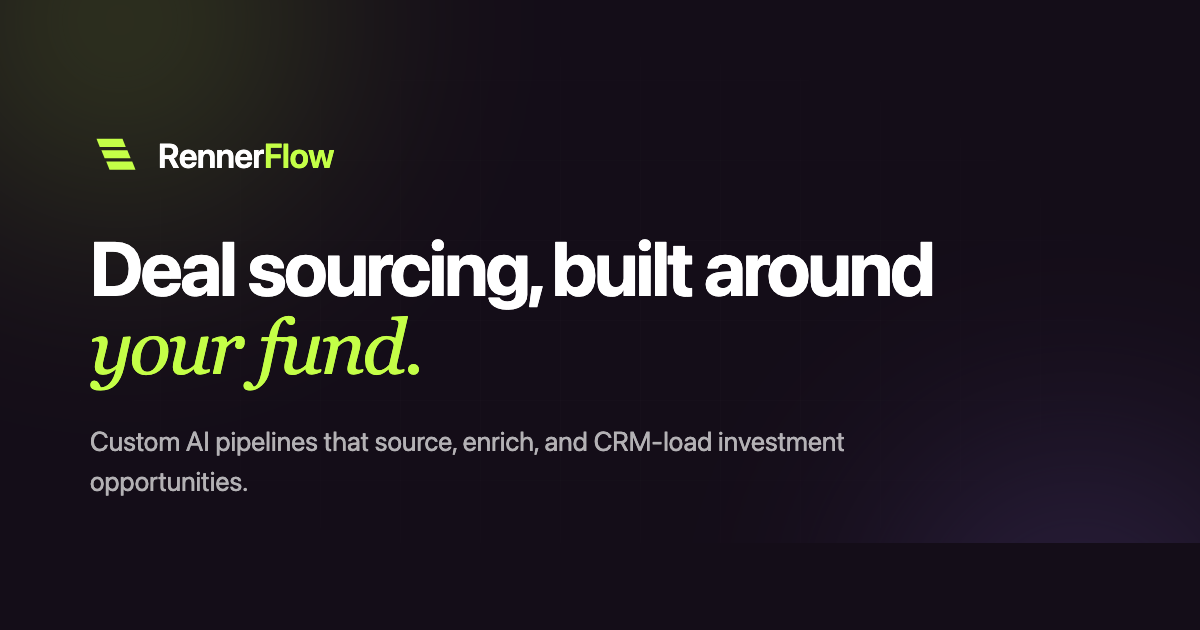
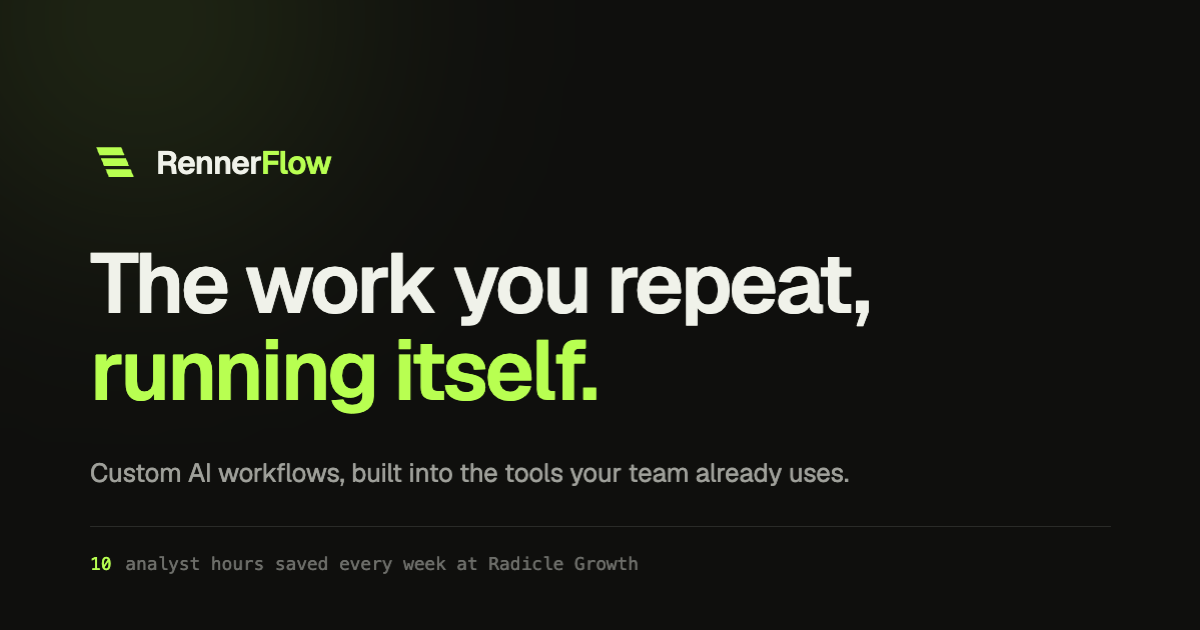
Animate hero as live workflow run, tighten rhythm, regenerate og-image
- Hero card is now a timestamped run log that executes on page load
- Section padding tightened so proof lands above the fold
- Live tag on the deal-flow catalog row ties catalog to case study
- og-image rebuilt to match current branding and tagline

diff --git a/index.html b/index.html
@@ -109,8 +109,8 @@ body{
 
 /* ═══════════════════ Layout ═══════════════════ */
 .wrap{max-width:var(--max);margin:0 auto;padding:0 28px;position:relative}
-section{padding:104px 0;position:relative}
-@media (max-width:768px){section{padding:72px 0}}
+section{padding:84px 0;position:relative}
+@media (max-width:768px){section{padding:64px 0}}
 
 .skip-link{
   position:absolute;left:-9999px;top:0;z-index:200;
@@ -191,7 +191,7 @@ nav.top.scrolled{background:rgba(9,10,7,0.85);border-color:var(--border-hi)}
 }
 
 /* ═══════════════════ Hero ═══════════════════ */
-.hero{padding:164px 0 96px}
+.hero{padding:148px 0 64px}
 .hero-grid{display:grid;grid-template-columns:1.3fr 0.7fr;gap:56px;align-items:center}
 @media (max-width:960px){.hero-grid{grid-template-columns:1fr;gap:44px}}
 
@@ -223,25 +223,34 @@ h1.display .accent{color:var(--lime)}
   color:var(--ink-mute);display:flex;justify-content:space-between;gap:12px;
 }
 .spec-head .k{color:var(--lime)}
-.spec-body{padding:10px 22px 18px}
-.spec-row{
-  display:grid;grid-template-columns:104px 1fr;gap:16px;align-items:baseline;
-  padding:12px 0;border-bottom:1px solid var(--border);
+.spec-body{padding:10px 22px 16px}
+.run-row{
+  display:grid;grid-template-columns:76px 1fr auto;gap:14px;align-items:baseline;
+  padding:13px 0;border-bottom:1px solid var(--border);
+  font-family:'Geist Mono',monospace;font-size:13px;line-height:1.4;
 }
-.spec-row:last-child{border-bottom:none}
-.spec-row .key{font-family:'Geist Mono',monospace;font-size:11px;letter-spacing:0.08em;text-transform:uppercase;color:var(--ink-mute)}
-.spec-row .val{font-family:'Geist Mono',monospace;font-size:13.5px;color:var(--ink);line-height:1.5}
-.spec-row .val em{font-style:normal;color:var(--lime)}
+.run-row:last-child{border-bottom:none}
+.run-row .t{font-size:11px;color:var(--ink-mute)}
+.run-row .msg{color:var(--ink)}
+.run-row .st{color:var(--lime);opacity:0;transition:opacity .3s var(--ease)}
+.run-row.done .st{opacity:1}
+.run-row.final .msg{color:var(--ink-mute);text-transform:uppercase;font-size:11px;letter-spacing:0.08em}
+.run-row .st.lime{font-size:13px}
+@media (prefers-reduced-motion: no-preference){
+  .run-row{opacity:0;transform:translateY(5px);transition:opacity .45s var(--ease),transform .45s var(--ease)}
+  .run-row .st{transition:opacity .3s var(--ease)}
+}
+.run-row.on{opacity:1;transform:none}
+@media (prefers-reduced-motion: reduce){.run-row{opacity:1}.run-row .st{opacity:1}}
 @media (max-width:560px){
-  .spec-body{padding:6px 18px 14px}
-  .spec-row{grid-template-columns:88px 1fr;gap:12px}
-  .spec-row .val{font-size:12.5px}
+  .spec-body{padding:6px 18px 12px}
+  .run-row{grid-template-columns:64px 1fr auto;gap:10px;font-size:12px}
 }
 
 /* ═══════════════════ Section heads ═══════════════════ */
 h2.big{font-size:clamp(32px,4.6vw,56px);font-weight:600;line-height:1.06;letter-spacing:-0.03em;text-wrap:balance}
 h2.big .accent{color:var(--lime)}
-.section-intro{max-width:720px;margin-bottom:52px}
+.section-intro{max-width:720px;margin-bottom:40px}
 .section-intro p{color:var(--ink-dim);font-size:17px;line-height:1.6;margin-top:18px;max-width:58ch}
 
 /* ═══════════════════ Case study ═══════════════════ */
@@ -285,6 +294,11 @@ h2.big .accent{color:var(--lime)}
 }
 .flow-row:hover{background:var(--surface)}
 .flow-row h3{font-size:16px;font-weight:600;letter-spacing:-0.015em}
+.flow-row h3 .live{
+  font-family:'Geist Mono',monospace;font-size:10px;font-weight:400;color:var(--lime);
+  border:1px solid var(--lime-line);border-radius:100px;padding:2px 9px;margin-left:10px;
+  text-transform:uppercase;letter-spacing:0.08em;vertical-align:2px;
+}
 .flow-row .io{font-family:'Geist Mono',monospace;font-size:13px;color:var(--ink-dim);line-height:1.6}
 .flow-row .io .arr{color:var(--lime);padding:0 8px}
 @media (max-width:720px){
@@ -545,14 +559,14 @@ input,textarea,select{font-size:16px}
       </div>
 
       <div class="hero-visual">
-        <div class="spec-card" aria-label="Example pipeline configuration">
-          <div class="spec-head"><span class="k">workflow</span><span>representative example</span></div>
-          <div class="spec-body">
-            <div class="spec-row"><span class="key">trigger</span><span class="val">every weekday, 07:00</span></div>
-            <div class="spec-row"><span class="key">sources</span><span class="val">14 newsletters, 3 registries, 1 shared inbox</span></div>
-            <div class="spec-row"><span class="key">steps</span><span class="val">extract, enrich, dedupe, score</span></div>
-            <div class="spec-row"><span class="key">output</span><span class="val">clean rows in your CRM</span></div>
-            <div class="spec-row"><span class="key">your part</span><span class="val"><em>nothing</em></span></div>
+        <div class="spec-card" aria-label="Example workflow run">
+          <div class="spec-head"><span class="k">workflow</span><span>example run</span></div>
+          <div class="spec-body" id="runlog">
+            <div class="run-row"><span class="t">07:00:02</span><span class="msg">watching 18 sources</span><span class="st">&#10003;</span></div>
+            <div class="run-row"><span class="t">07:03:47</span><span class="msg">31 records extracted</span><span class="st">&#10003;</span></div>
+            <div class="run-row"><span class="t">07:09:12</span><span class="msg">enriched, 2 duplicates blocked</span><span class="st">&#10003;</span></div>
+            <div class="run-row"><span class="t">07:11:03</span><span class="msg">29 rows written to your CRM</span><span class="st">&#10003;</span></div>
+            <div class="run-row final"><span class="t"></span><span class="msg">your part</span><span class="st lime">nothing</span></div>
           </div>
         </div>
       </div>
@@ -591,7 +605,7 @@ input,textarea,select{font-size:16px}
     </div>
     <div class="flow-table reveal-stagger">
       <div class="flow-row">
-        <h3>Deal flow</h3>
+        <h3>Deal flow<span class="live">live</span></h3>
         <div class="io">newsletters + registries + inbox<span class="arr">&rarr;</span>CRM rows</div>
       </div>
       <div class="flow-row">
@@ -790,6 +804,20 @@ onScroll();
 
   window.addEventListener('resize', () => {
     if (window.innerWidth > 720 && menu.classList.contains('open')) setOpen(false);
+  });
+})();
+
+// ───── Hero run-log animation ─────
+(() => {
+  const rows = document.querySelectorAll('#runlog .run-row');
+  if (!rows.length) return;
+  if (window.matchMedia('(prefers-reduced-motion: reduce)').matches){
+    rows.forEach(r => r.classList.add('on','done'));
+    return;
+  }
+  rows.forEach((r, i) => {
+    setTimeout(() => r.classList.add('on'), 800 + i*520);
+    setTimeout(() => r.classList.add('done'), 1150 + i*520);
   });
 })();
 

diff --git a/og-image-source.html b/og-image-source.html
@@ -3,12 +3,22 @@
 <head>
 <meta charset="UTF-8" />
 <style>
+  @font-face{
+    font-family:'Geist';
+    src:url('fonts/Geist-Variable.woff2') format('woff2');
+    font-weight:100 900;font-style:normal;
+  }
+  @font-face{
+    font-family:'Geist Mono';
+    src:url('fonts/GeistMono-Variable.woff2') format('woff2');
+    font-weight:100 900;font-style:normal;
+  }
   * { box-sizing: border-box; margin: 0; padding: 0; }
   html, body { width: 1200px; height: 630px; overflow: hidden; }
   body {
-    font-family: 'Inter', system-ui, -apple-system, sans-serif;
-    background: #140D18;
-    color: #fff;
+    font-family: 'Geist', system-ui, -apple-system, sans-serif;
+    background: #0C0D0A;
+    color: #F2F4EC;
     position: relative;
     display: flex;
     flex-direction: column;
@@ -16,41 +26,35 @@
     padding: 0 90px;
     letter-spacing: -0.01em;
   }
-  .glow-a, .glow-b {
-    position: absolute; border-radius: 50%; filter: blur(120px); pointer-events: none;
+  .glow {
+    position: absolute; border-radius: 50%; filter: blur(110px); pointer-events: none;
+    width: 640px; height: 640px; top: -300px; left: -180px;
+    background: radial-gradient(circle, #C4FF47 0%, transparent 65%); opacity: 0.16;
   }
-  .glow-a { width: 560px; height: 560px; top: -260px; left: -160px;
-    background: radial-gradient(circle, #C4FF47 0%, transparent 70%); opacity: 0.28; }
-  .glow-b { width: 520px; height: 520px; bottom: -260px; right: -140px;
-    background: radial-gradient(circle, #9B7BF7 0%, transparent 70%); opacity: 0.3; }
-  .grid {
-    position: absolute; inset: 0; opacity: 0.3;
-    background-image:
-      linear-gradient(rgba(255,255,255,0.03) 1px, transparent 1px),
-      linear-gradient(90deg, rgba(255,255,255,0.03) 1px, transparent 1px);
-    background-size: 80px 80px;
-    -webkit-mask-image: radial-gradient(ellipse at center, black 30%, transparent 80%);
-    mask-image: radial-gradient(ellipse at center, black 30%, transparent 80%);
-  }
-  .brand { display: flex; align-items: center; gap: 16px; margin-bottom: 48px; position: relative; }
-  .brand svg { width: 52px; height: 52px; }
-  .brand .name { font-size: 34px; font-weight: 600; letter-spacing: -0.02em; }
+  .brand { display: flex; align-items: center; gap: 16px; margin-bottom: 52px; position: relative; }
+  .brand svg { width: 50px; height: 50px; }
+  .brand .name { font-size: 32px; font-weight: 600; letter-spacing: -0.02em; }
   .brand .flow { color: #C4FF47; }
   h1 {
-    font-size: 76px; font-weight: 700; line-height: 1.02; letter-spacing: -0.035em;
-    max-width: 980px; position: relative; margin-bottom: 36px;
+    font-size: 84px; font-weight: 600; line-height: 1.04; letter-spacing: -0.035em;
+    max-width: 980px; position: relative; margin-bottom: 40px;
   }
-  h1 .em { color: #C4FF47; font-family: Georgia, 'Times New Roman', serif; font-style: italic; font-weight: 400; }
+  h1 .em { color: #C4FF47; }
   .sub {
-    font-size: 27px; color: rgba(255,255,255,0.68); line-height: 1.45;
-    max-width: 860px; position: relative;
+    font-size: 26px; color: rgba(242,244,236,0.64); line-height: 1.45;
+    max-width: 900px; position: relative;
   }
+  .stat {
+    position: absolute; bottom: 56px; left: 90px; right: 90px;
+    display: flex; align-items: baseline; gap: 14px;
+    font-family: ui-monospace, 'SF Mono', Menlo, monospace; font-size: 18px; color: rgba(242,244,236,0.42);
+    border-top: 1px solid rgba(242,244,236,0.12); padding-top: 26px;
+  }
+  .stat b { color: #C4FF47; font-weight: 500; }
 </style>
 </head>
 <body>
-  <div class="glow-a"></div>
-  <div class="glow-b"></div>
-  <div class="grid"></div>
+  <div class="glow"></div>
   <div class="brand">
     <svg viewBox="0 0 32 32" aria-hidden="true">
       <g fill="#C4FF47">
@@ -61,7 +65,8 @@
     </svg>
     <span class="name">Renner<span class="flow">Flow</span></span>
   </div>
-  <h1>Deal sourcing, built around <span class="em">your fund.</span></h1>
-  <div class="sub">Custom AI pipelines that source, enrich, and CRM-load investment opportunities.</div>
+  <h1>The work you repeat, <span class="em">running itself.</span></h1>
+  <div class="sub">Custom AI workflows, built into the tools your team already uses.</div>
+  <div class="stat"><b>10</b> analyst hours saved every week at Radicle Growth</div>
 </body>
 </html>
